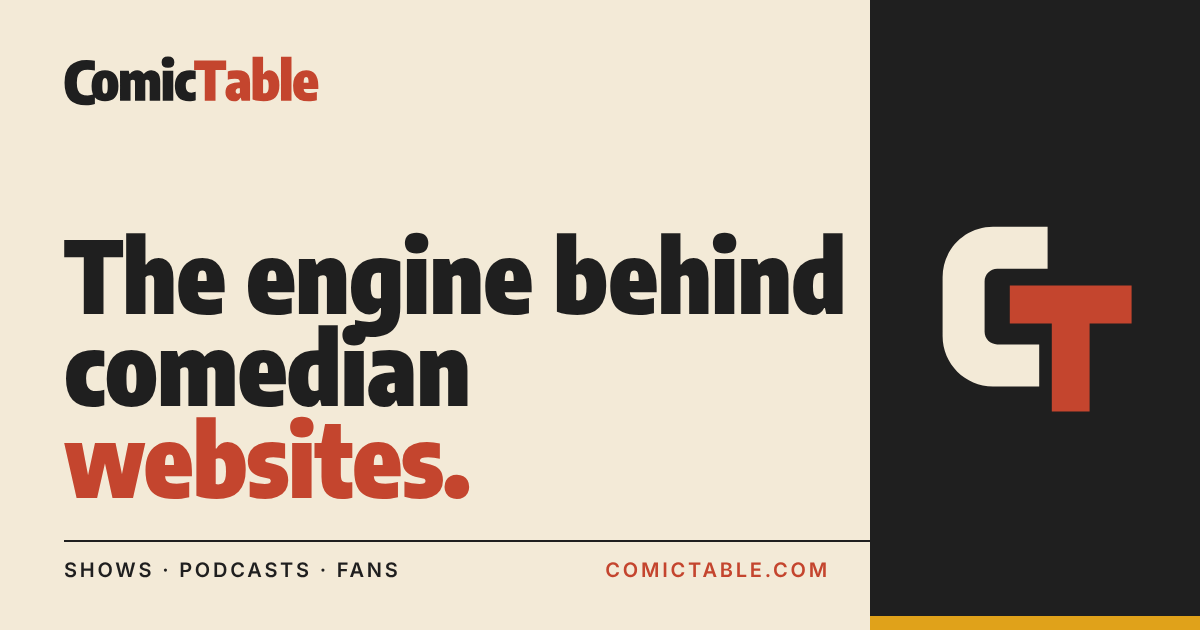
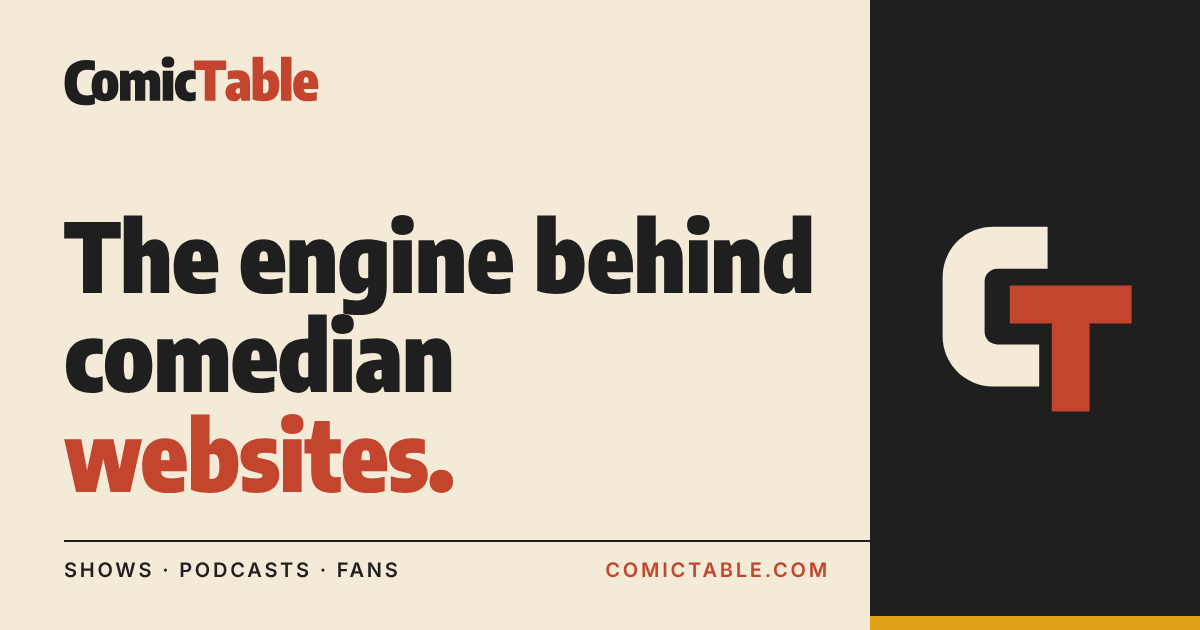
More room between headline lines so descenders (g) don't touch the line below (link preview and comictable.com)
Claude-Session: https://claude.ai/code/session_01MMJiH2YcuUKAu29SY4X2cE

Changed region(s): [[0.0308, 0.3317, 0.7092, 0.8143]]

diff --git a/platform/home/index.html b/platform/home/index.html
@@ -44,7 +44,7 @@ a { color: inherit; }
 .dark :focus-visible { outline-color: var(--bg); }
 [hidden] { display: none !important; }
 .wrap { max-width: 1200px; margin: 0 auto; padding: 0 32px; }
-h1, h2, h3 { font-family: var(--display); font-weight: 900; letter-spacing: -0.01em; line-height: .95; margin: 0; }
+h1, h2, h3 { font-family: var(--display); font-weight: 900; letter-spacing: -0.01em; line-height: 1.02; margin: 0; }
 .btn { display: inline-flex; align-items: center; gap: 8px; font: 600 16px/1 var(--font); padding: 15px 24px; border-radius: var(--ct-radius); text-decoration: none; border: 0; cursor: pointer; transition: background .12s; }
 .btn.red { background: var(--red); color: #fff; }
 .btn.red:hover { background: var(--red-h); }
